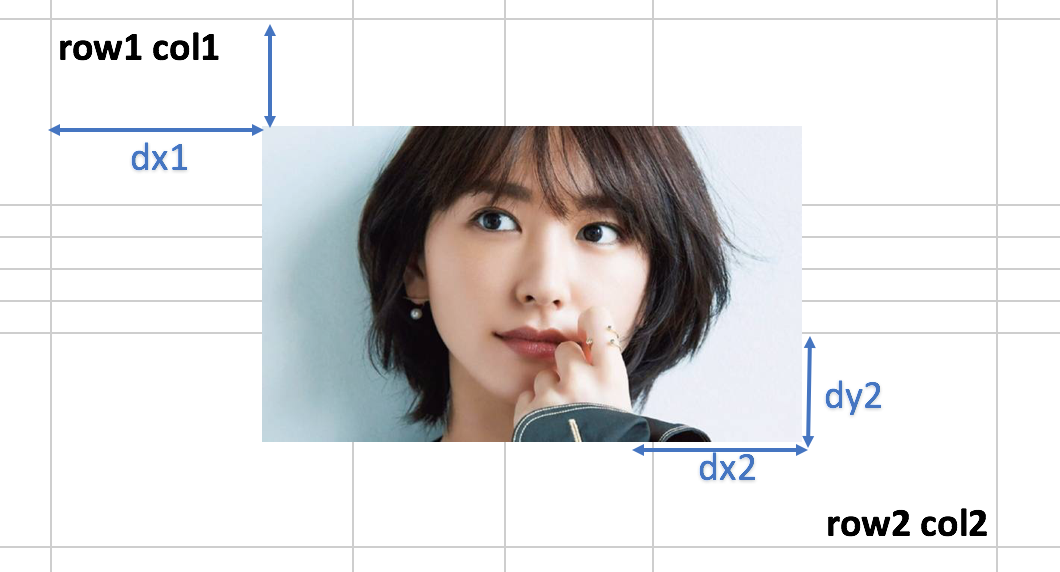
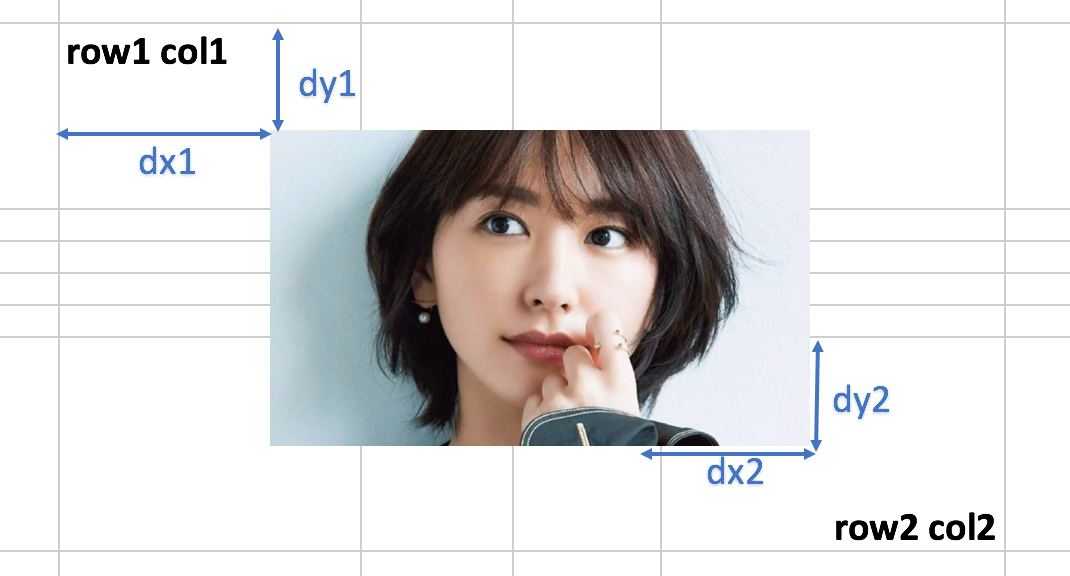
update post

diff --git a/source/_posts/2018-04-09-poi-image-dimension.md b/source/_posts/2018-04-09-poi-image-dimension.md
@@ -1,0 +1,67 @@
+---
+title: Apache POI获取Excel内嵌图片大小的一处bug
+date: 2018-04-09 20:38:40
+tags: POI
+---
+
+近来用Apache POI解析Excel内容，遇到一个解析图片的坑，这篇文章将解释如何正确获取Excel中图片的正确大小和位置。我想，这篇文章很适合和我一样正在用Apache POI解析Excel内容的人阅读，替你避开一些坑，以及让你知道Apache POI中一处解析图片大小的bug。
+
+
+我们知道，Apache POI中对Excel的图片的大小和位置存储在ClientAnchor对象中，而该对象可以通过Picture获取
+
+```java
+ClientAnchor anchor = picture.getClientAnchor();
+```
+
+而图片的大小和位置，最终是通过ClientAnchor的以下几个变量进行描述
+
+```java
+row1, col1, row2, col2, dx1, dy1, dx2, dy2
+```
+
+请看下图，图中标出了以上八个变量的含义
+
+
+![](/images/poi_image_size_01.png)
+
+row1, col1代表图片左上角所在的格子，而dx1, dy1表示图片在这个左上角格子的偏移量；
+row2, col2代表图片右下角所在的格子，而dx2, dy2表示图片在这个右下角格子的偏移量。
+
+从图中不难发现，要获取图片位置，只需把在row1, col1之前的列宽，行高分别累加起来，然后再分别加上dx1, dy1的偏移量，即可得到图片在sheet中的位置。
+
+
+而要获取图片大小，从图中对几个变量的注释，也不难理解如何获取图片大小，我们可以使用POI的工具方法获取图片大小[org.apache.poi.ss.util.ImageUtils#getDimensionFromAnchor](https://github.com/apache/poi/blob/2395c89b4521bc98f0b337d309679c8386bd8c45/src/java/org/apache/poi/ss/util/ImageUtils.java#L225)
+
+由于计算图片高度与计算宽度原理一致，所以我们只介绍一下计算宽度的思路。上面图中，图片横跨了4列，我们默认这四列宽度分别为width1, width2, width3, width4。那么
+
+```java
+图片宽度 = (width1 - dx1) + width2 + width3 + dx2
+```
+
+到此为止貌似一切都很顺利，但是后来上线发现一个问题，当一张图片只占据一个方格时，[org.apache.poi.ss.util.ImageUtils#getDimensionFromAnchor](https://github.com/apache/poi/blob/2395c89b4521bc98f0b337d309679c8386bd8c45/src/java/org/apache/poi/ss/util/ImageUtils.java#L225) 这个方法计算图片大小是有bug的，
+
+我们先来看看，当图片只占据一个方格时的样子
+
+![](/images/poi_image_size_02.png)
+
+很明显，此时
+
+```java
+图片宽度 = dx2 - dx1
+```
+
+综上，我们可以得出计算图片大小的结论，我们依然只列出结算宽度的过程
+
+```java
+如果col1 < col2， 默认这其中横跨的列，它们的列宽分别是width1, width2, width3, ... , widthn，那么
+
+图片宽度 = (width1 - dx1) + width2 + width3 + ... + width(n-1) + dx2
+
+如果col1 = col2，那么
+
+图片宽度 = dx2 - dx1
+
+```
+
+最后附上实现代码[Gist](https://gist.github.com/Leaking/8e0ac94aeb80800c2376f39010eac41d)
+
